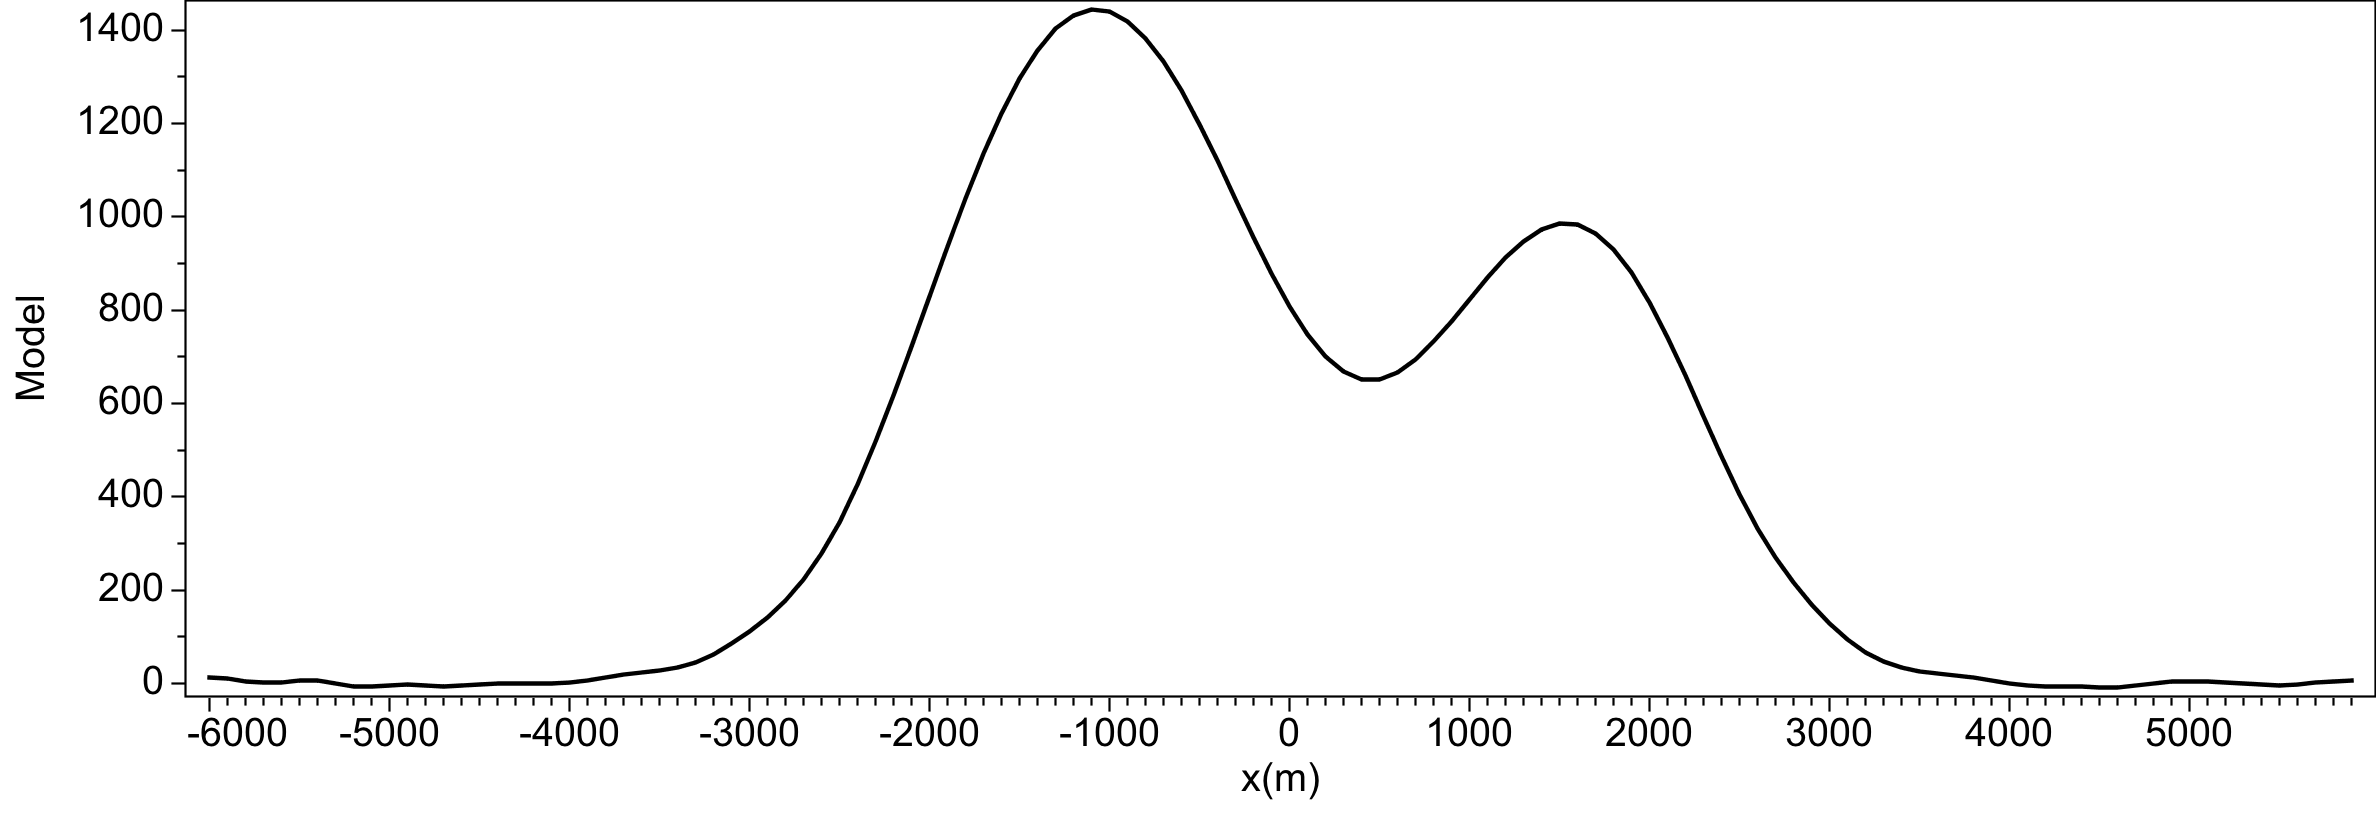
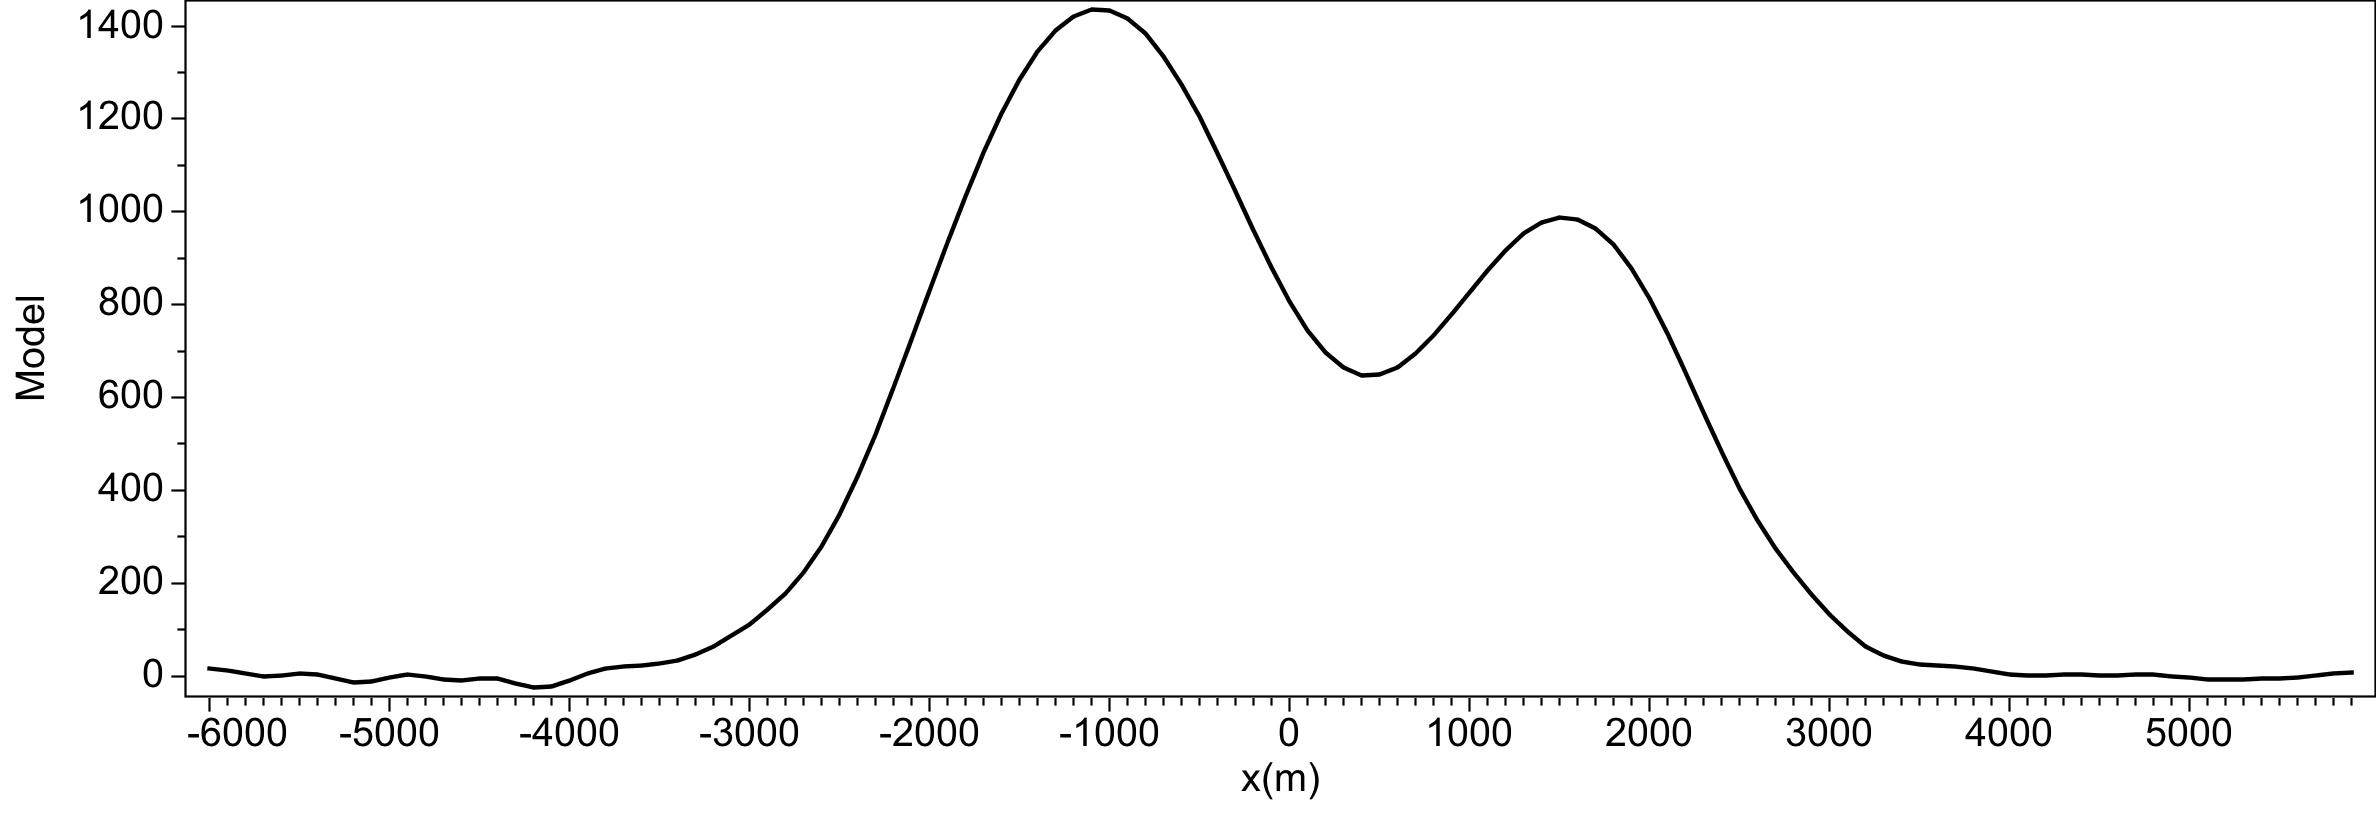
update

diff --git a/inversionTheory/hw6/nonlinearInv.py b/inversionTheory/hw6/nonlinearInv.py
@@ -44,7 +44,8 @@ dataDir = "./data/"
 #############################################################################
 
 def main(args):
-  beta =[1.0e-1,1.0e-2,1.0e-3,1.0e-4,1.0e-5,1.0e-6]
+  #beta =[1.0e-1,1.0e-2,1.0e-3,1.0e-4,1.0e-5,1.0e-6]
+  beta = [1.0e-4]
   da = readData(48,4,'hw06')
   xo = da[0]
   do = da[2]
@@ -55,7 +56,6 @@ def main(args):
   ni.setPerturb(35.0)
   ni.setWmWd(alphaX,alphaS,dSigma)
   ms = zerofloat(nm,len(beta))
-  '''
   for i in range(len(beta)):
     print "beta="
     print beta[i]
@@ -64,15 +64,16 @@ def main(args):
     ni.inverter(sm,beta[i],do,mk)
     copy(mk,ms[i]) 
     plot1D(sm,mk,"Model","x(m)",title="model")
-  writeData("models",ms)
-  '''
+  #writeData("models",ms)
   ms = readData(nm,6,"models")
   cs = [Color.blue,Color.cyan,Color.green,Color.yellow,Color.orange,Color.red]
   plotMultiple1D(sm,ms,cs,"Recovered models","x(m)",png="models")
   plot1D(sd,do,"Observed data","x(m)",title="data")
+  '''
   phi=[321130.03,4815.872,150.72491,30.443737,19.774208]
   sh = Sampling(5,1.0,0.0)
   plot1D(sh,phi,"Object function","Gauss-Newton iterates",title="gs")
+  '''
 ##################################################################
 # plots
 jet = ColorMap.JET
